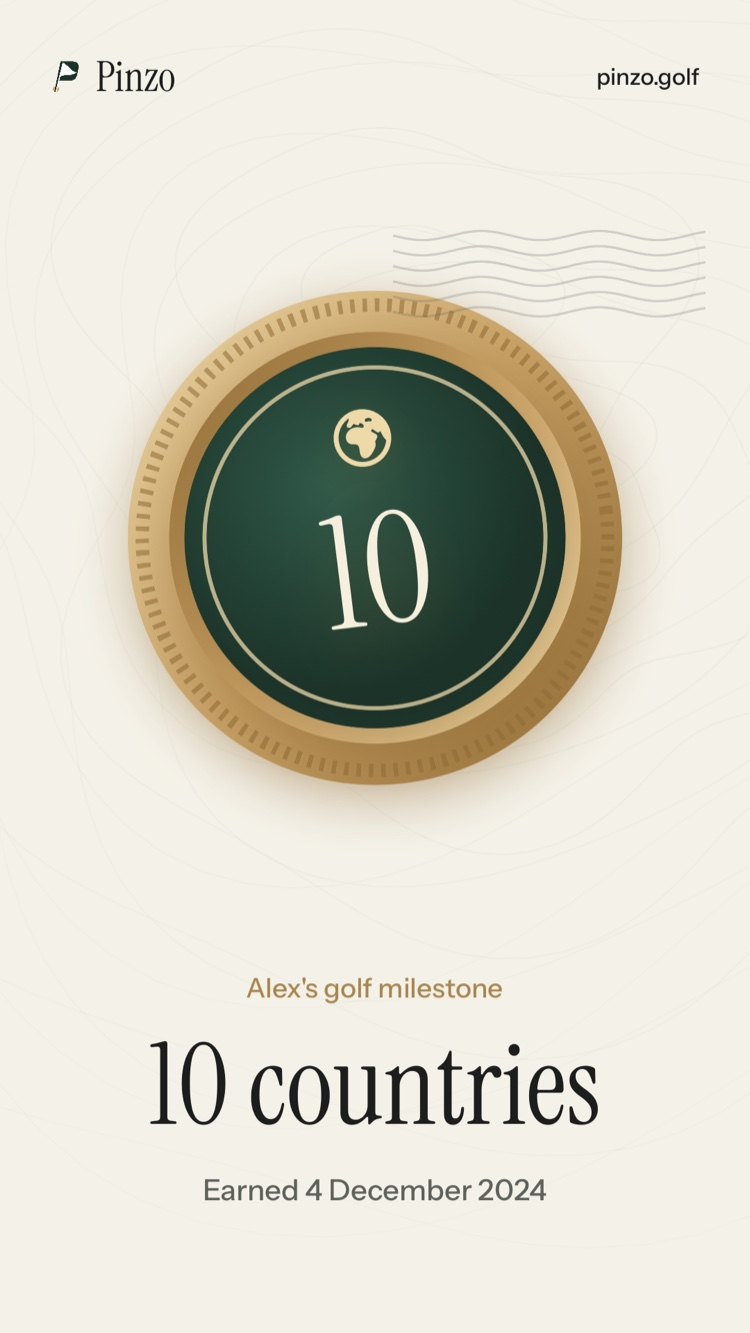
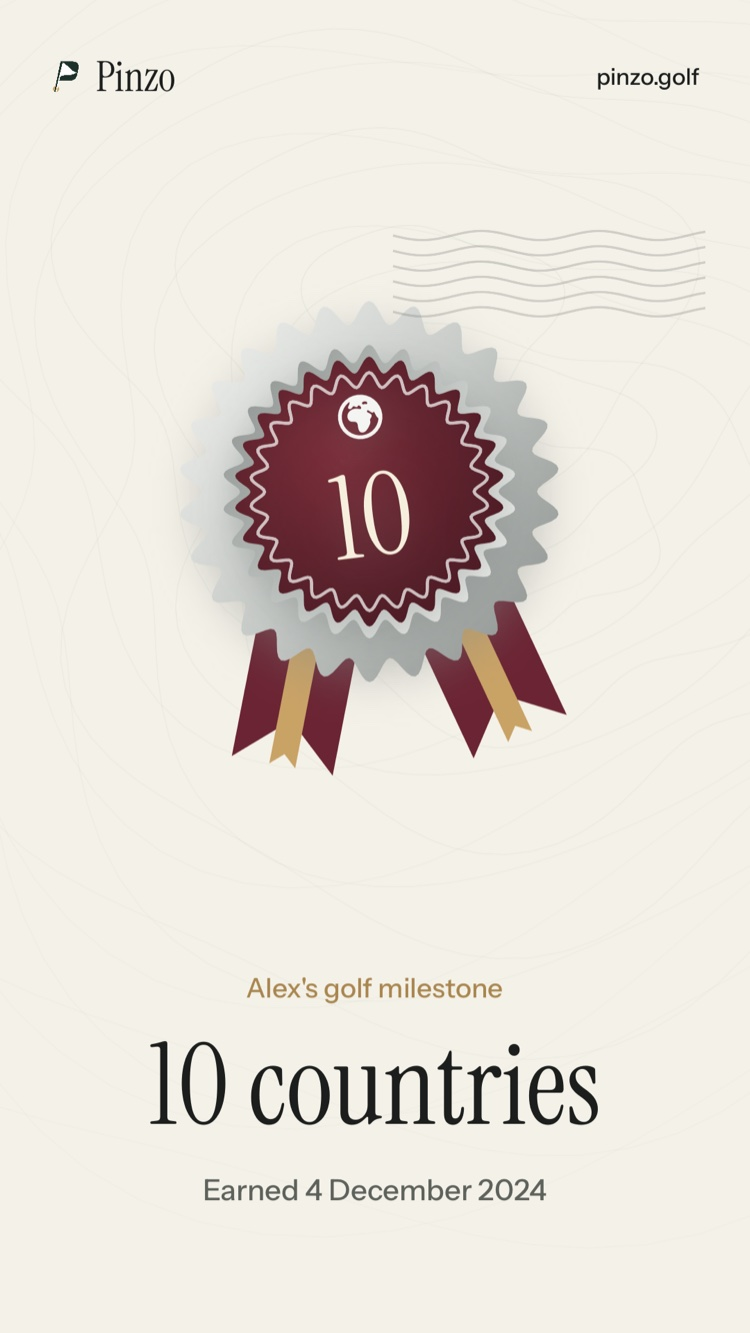
Playing partners in privacy and support; medals copy; new milestone postcard

Changed region(s): [[0.1533, 0.2153, 0.8587, 0.6152]]

diff --git a/privacy/index.html b/privacy/index.html
@@ -56,11 +56,12 @@
     <li>your first and last name, home town and, if you've added them, your handicap index and favourite course;</li>
     <li>each round's course, country and date, and so your stamps, milestones and the places you've played;</li>
     <li>your scores, only if you turn on <b>Share my scores</b>;</li>
+    <li>which of your friends you played a round with, if you tag them (they can then add that round to their own passport);</li>
     <li>a notification when you log a new round, if they've turned those on.</li>
   </ul>
-  <p>Your photos, scorecards, notes, profile picture, bio, bucket list, home location, playing partners and Apple Health data are never shared or uploaded.</p>
+  <p>Your photos, scorecards, notes, profile picture, bio, bucket list, home location, the names you type for people not on Pinzo and Apple Health data are never shared or uploaded.</p>
   <h3>What we store</h3>
-  <p>To make this work we store: an anonymous account identifier from Sign in with Apple; the profile details and round facts listed above; who you're friends with; invites you've created; anyone you've blocked; reports you make; and, if you allow friend notifications, a push token for your device. This is held by our database provider, Supabase (servers in Ireland), under a data processing agreement. Notifications are delivered by Apple's push notification service.</p>
+  <p>To make this work we store: an anonymous account identifier from Sign in with Apple; the profile details and round facts listed above, including which friends you tagged; who you're friends with; invites you've created; anyone you've blocked; reports you make; and, if you allow friend notifications, a push token for your device. This is held by our database provider, Supabase (servers in Ireland), under a data processing agreement. Notifications are delivered by Apple's push notification service.</p>
   <p>Our legal basis is providing the service you asked for. We keep this data until you leave Friends. Reports are kept for up to a year so we can act on them.</p>
   <h3>Leaving</h3>
   <p>Go to <b>Settings → Leave Friends and delete account</b>. This deletes your account, your shared passport, friendships, invites and push token from our servers straight away and disconnects Sign in with Apple. Your own passport isn't affected; it stays on your iPhone and in your iCloud.</p>

diff --git a/support/index.html b/support/index.html
@@ -44,6 +44,7 @@
     <details><summary>How do I delete everything?</summary><p>Profile → Settings → <b>Delete all my data</b>. It removes everything from your device and your iCloud and can't be undone.</p></details>
     <details><summary>Some course details are wrong</summary><p>Course information comes from OpenStreetMap, which anyone can improve at openstreetmap.org — corrections flow into Pinzo in later updates. Or email us and we'll take a look.</p></details>
     <details><summary>How do I add friends?</summary><p>Go to your Profile and tap <b>Invite a friend</b>. Pinzo makes a private link that works once; send it by Messages, WhatsApp or anything else. When your friend taps it and accepts, you'll see each other's courses, countries, stamps and new rounds. There's no search, so nobody can find you unless you send them a link.</p></details>
+    <details><summary>Can I add who I played with?</summary><p>Yes. When you log a round, tap friends under <b>Played with</b>, or type the name of anyone who isn't on Pinzo. Friends you tag get a note and can add the round to their own passport with one tap. Names you type stay on your iPhone.</p></details>
     <details><summary>Can friends see my scores, photos or notes?</summary><p>Photos and notes are never shared. Scores stay private unless you turn on <b>Share my scores</b> in Settings → Friends.</p></details>
     <details><summary>How do I remove, block or report someone?</summary><p>Open their profile and tap <b>⋯</b> in the corner. Removing or blocking is instant and they aren't told. Reports come to us and we look at them within 48 hours.</p></details>
     <details><summary>I've got a new iPhone. Where are my friends?</summary><p>Your passport comes back by itself through iCloud. For Friends, go to Profile or Settings and tap <b>Already use Friends? Sign in</b>, then continue with the same Apple Account. Your friends reappear straight away. You can sign out of Friends at any time in Settings; your account and friends are kept.</p></details>

diff --git a/index.html b/index.html
@@ -55,7 +55,7 @@
       <figure class="device"><img src="/assets/screens/stamp.jpg" alt="A Scotland passport stamp being pressed onto a page"></figure>
       <span class="num">02</span>
       <h2>A stamp for every country.</h2>
-      <p>Play somewhere new and Pinzo presses a stamp into your passport. Milestones arrive too: your fiftieth course, breaking eighty, the Old Course, every Home Nation.</p>
+      <p>Play somewhere new and Pinzo presses a stamp into your passport. Fifty milestone medals arrive too, in bronze, silver and gold: your fiftieth course, breaking eighty, the Old Course, a golf trip abroad.</p>
     </article>
     <article class="step reveal">
       <figure class="device"><img src="/assets/screens/explore.jpg" alt="Explore, with 3D aerial views of nearby courses"></figure>
